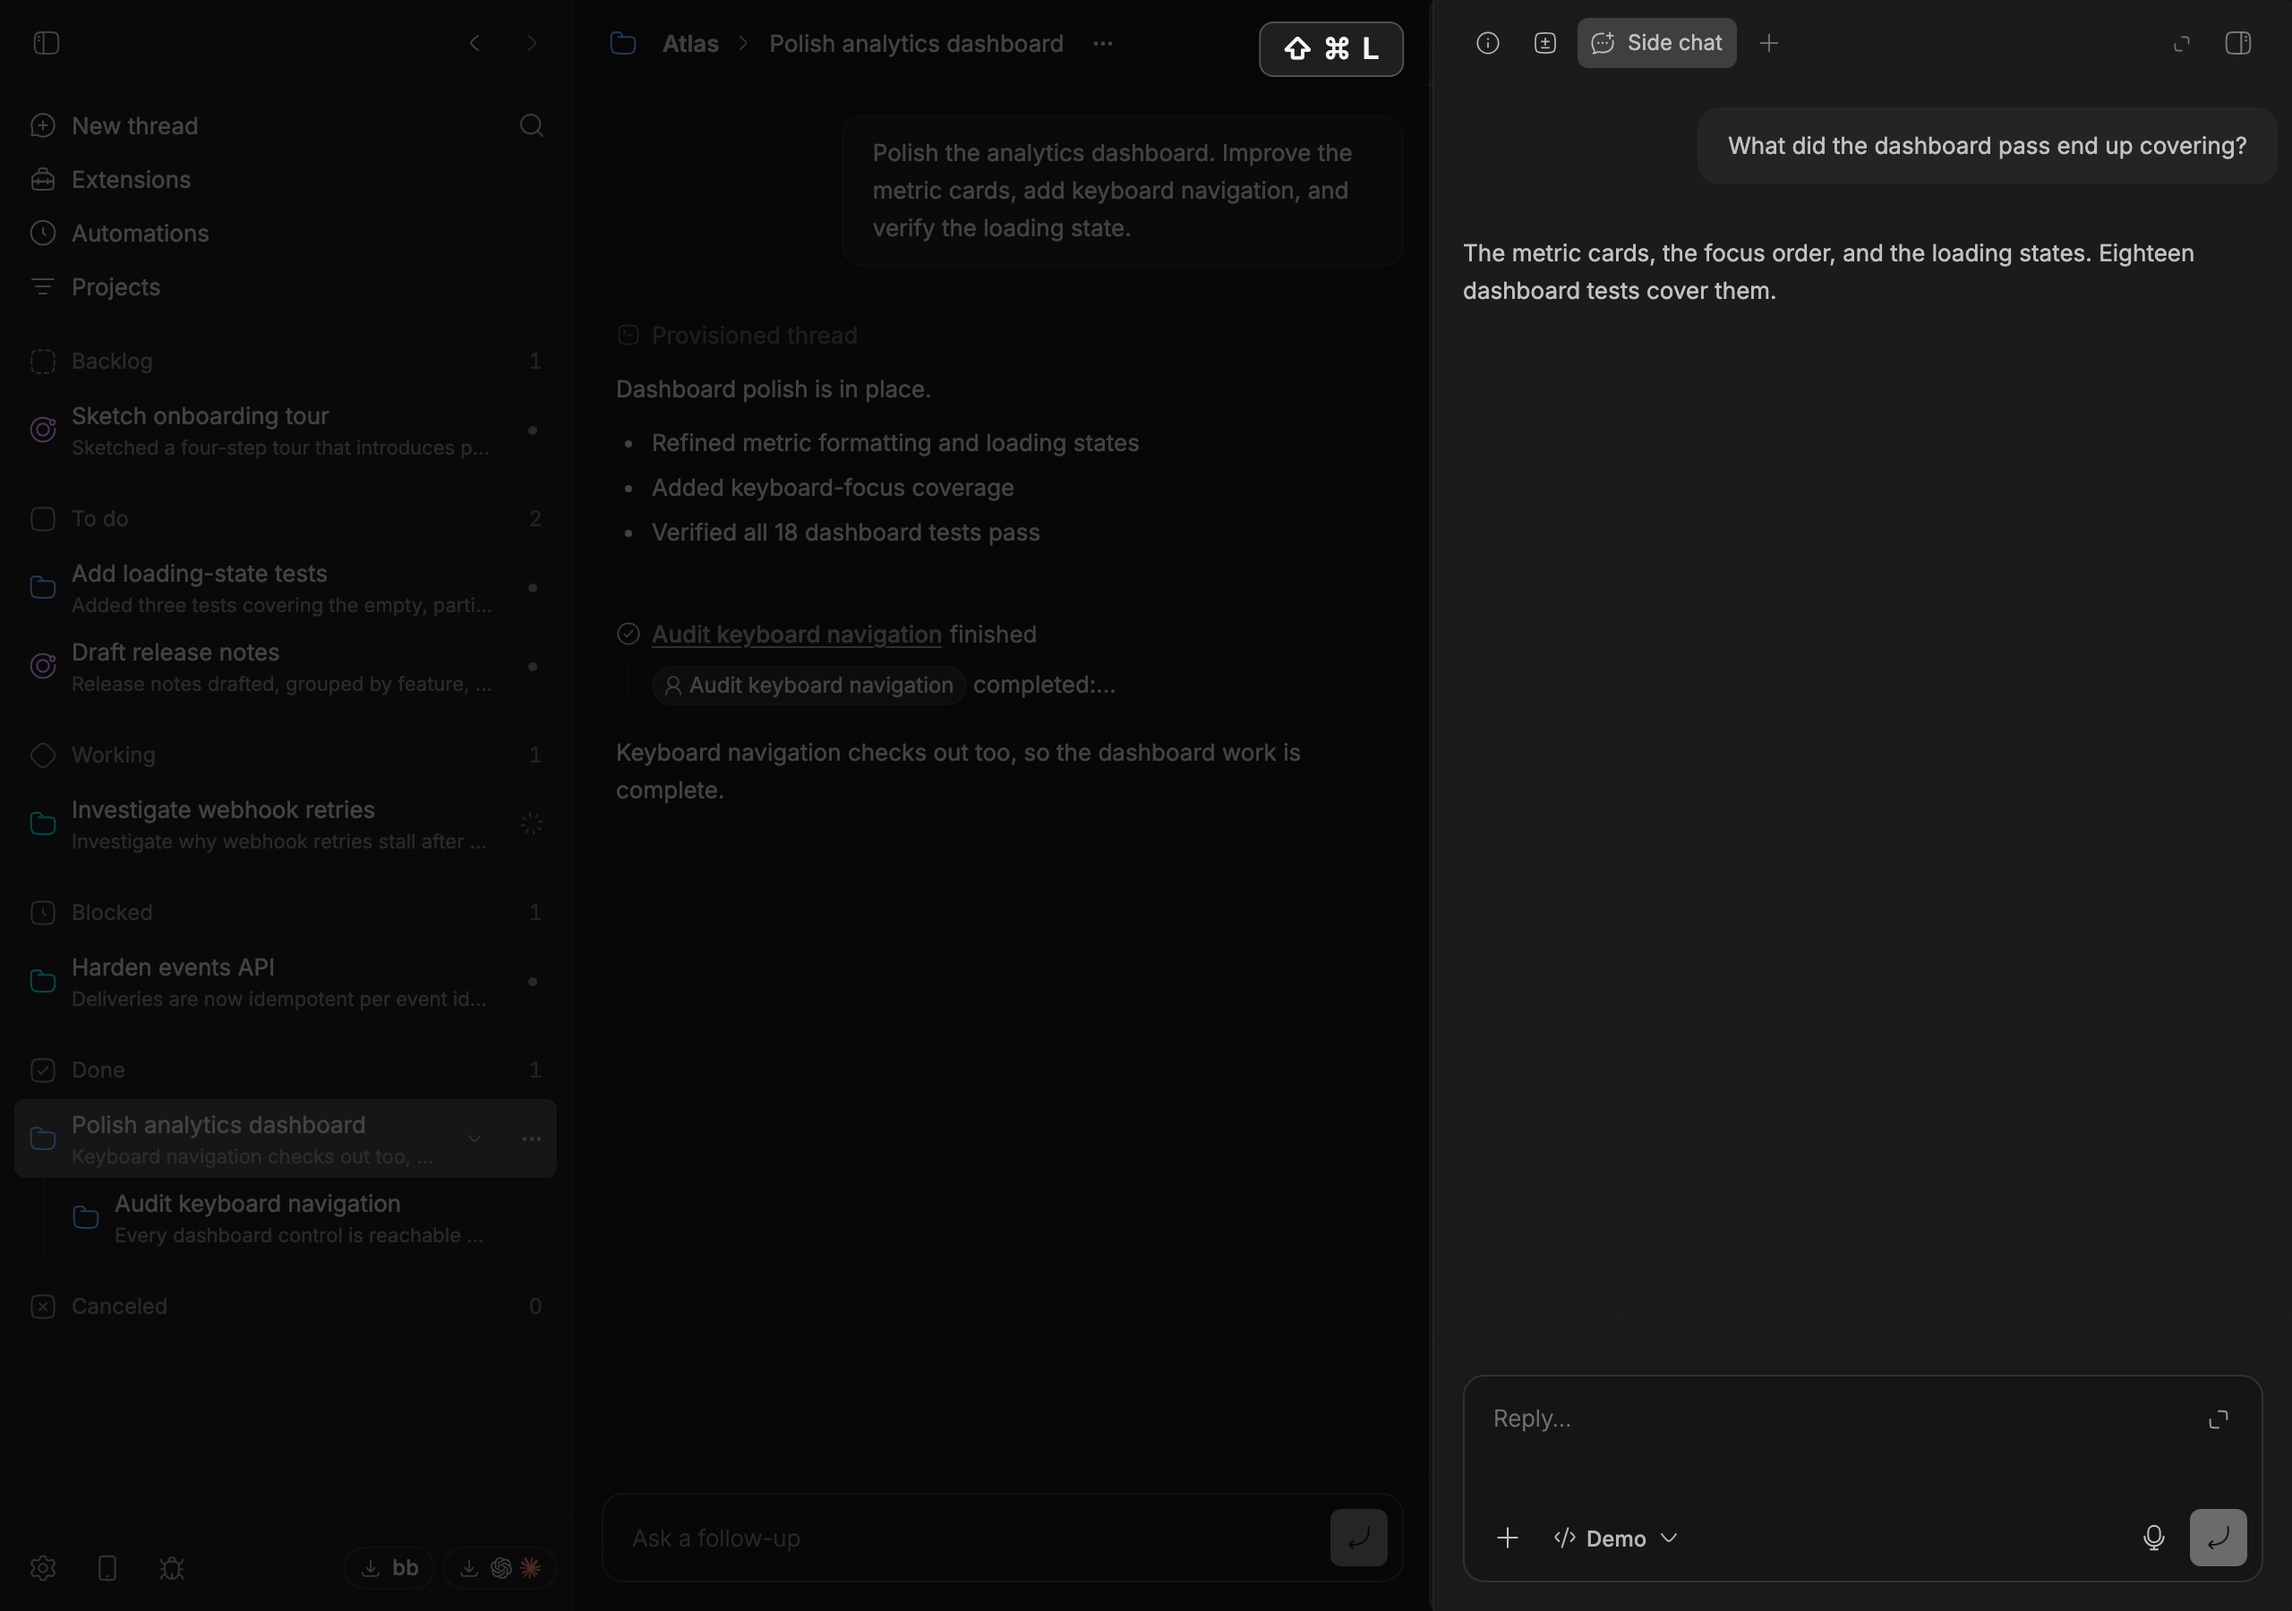
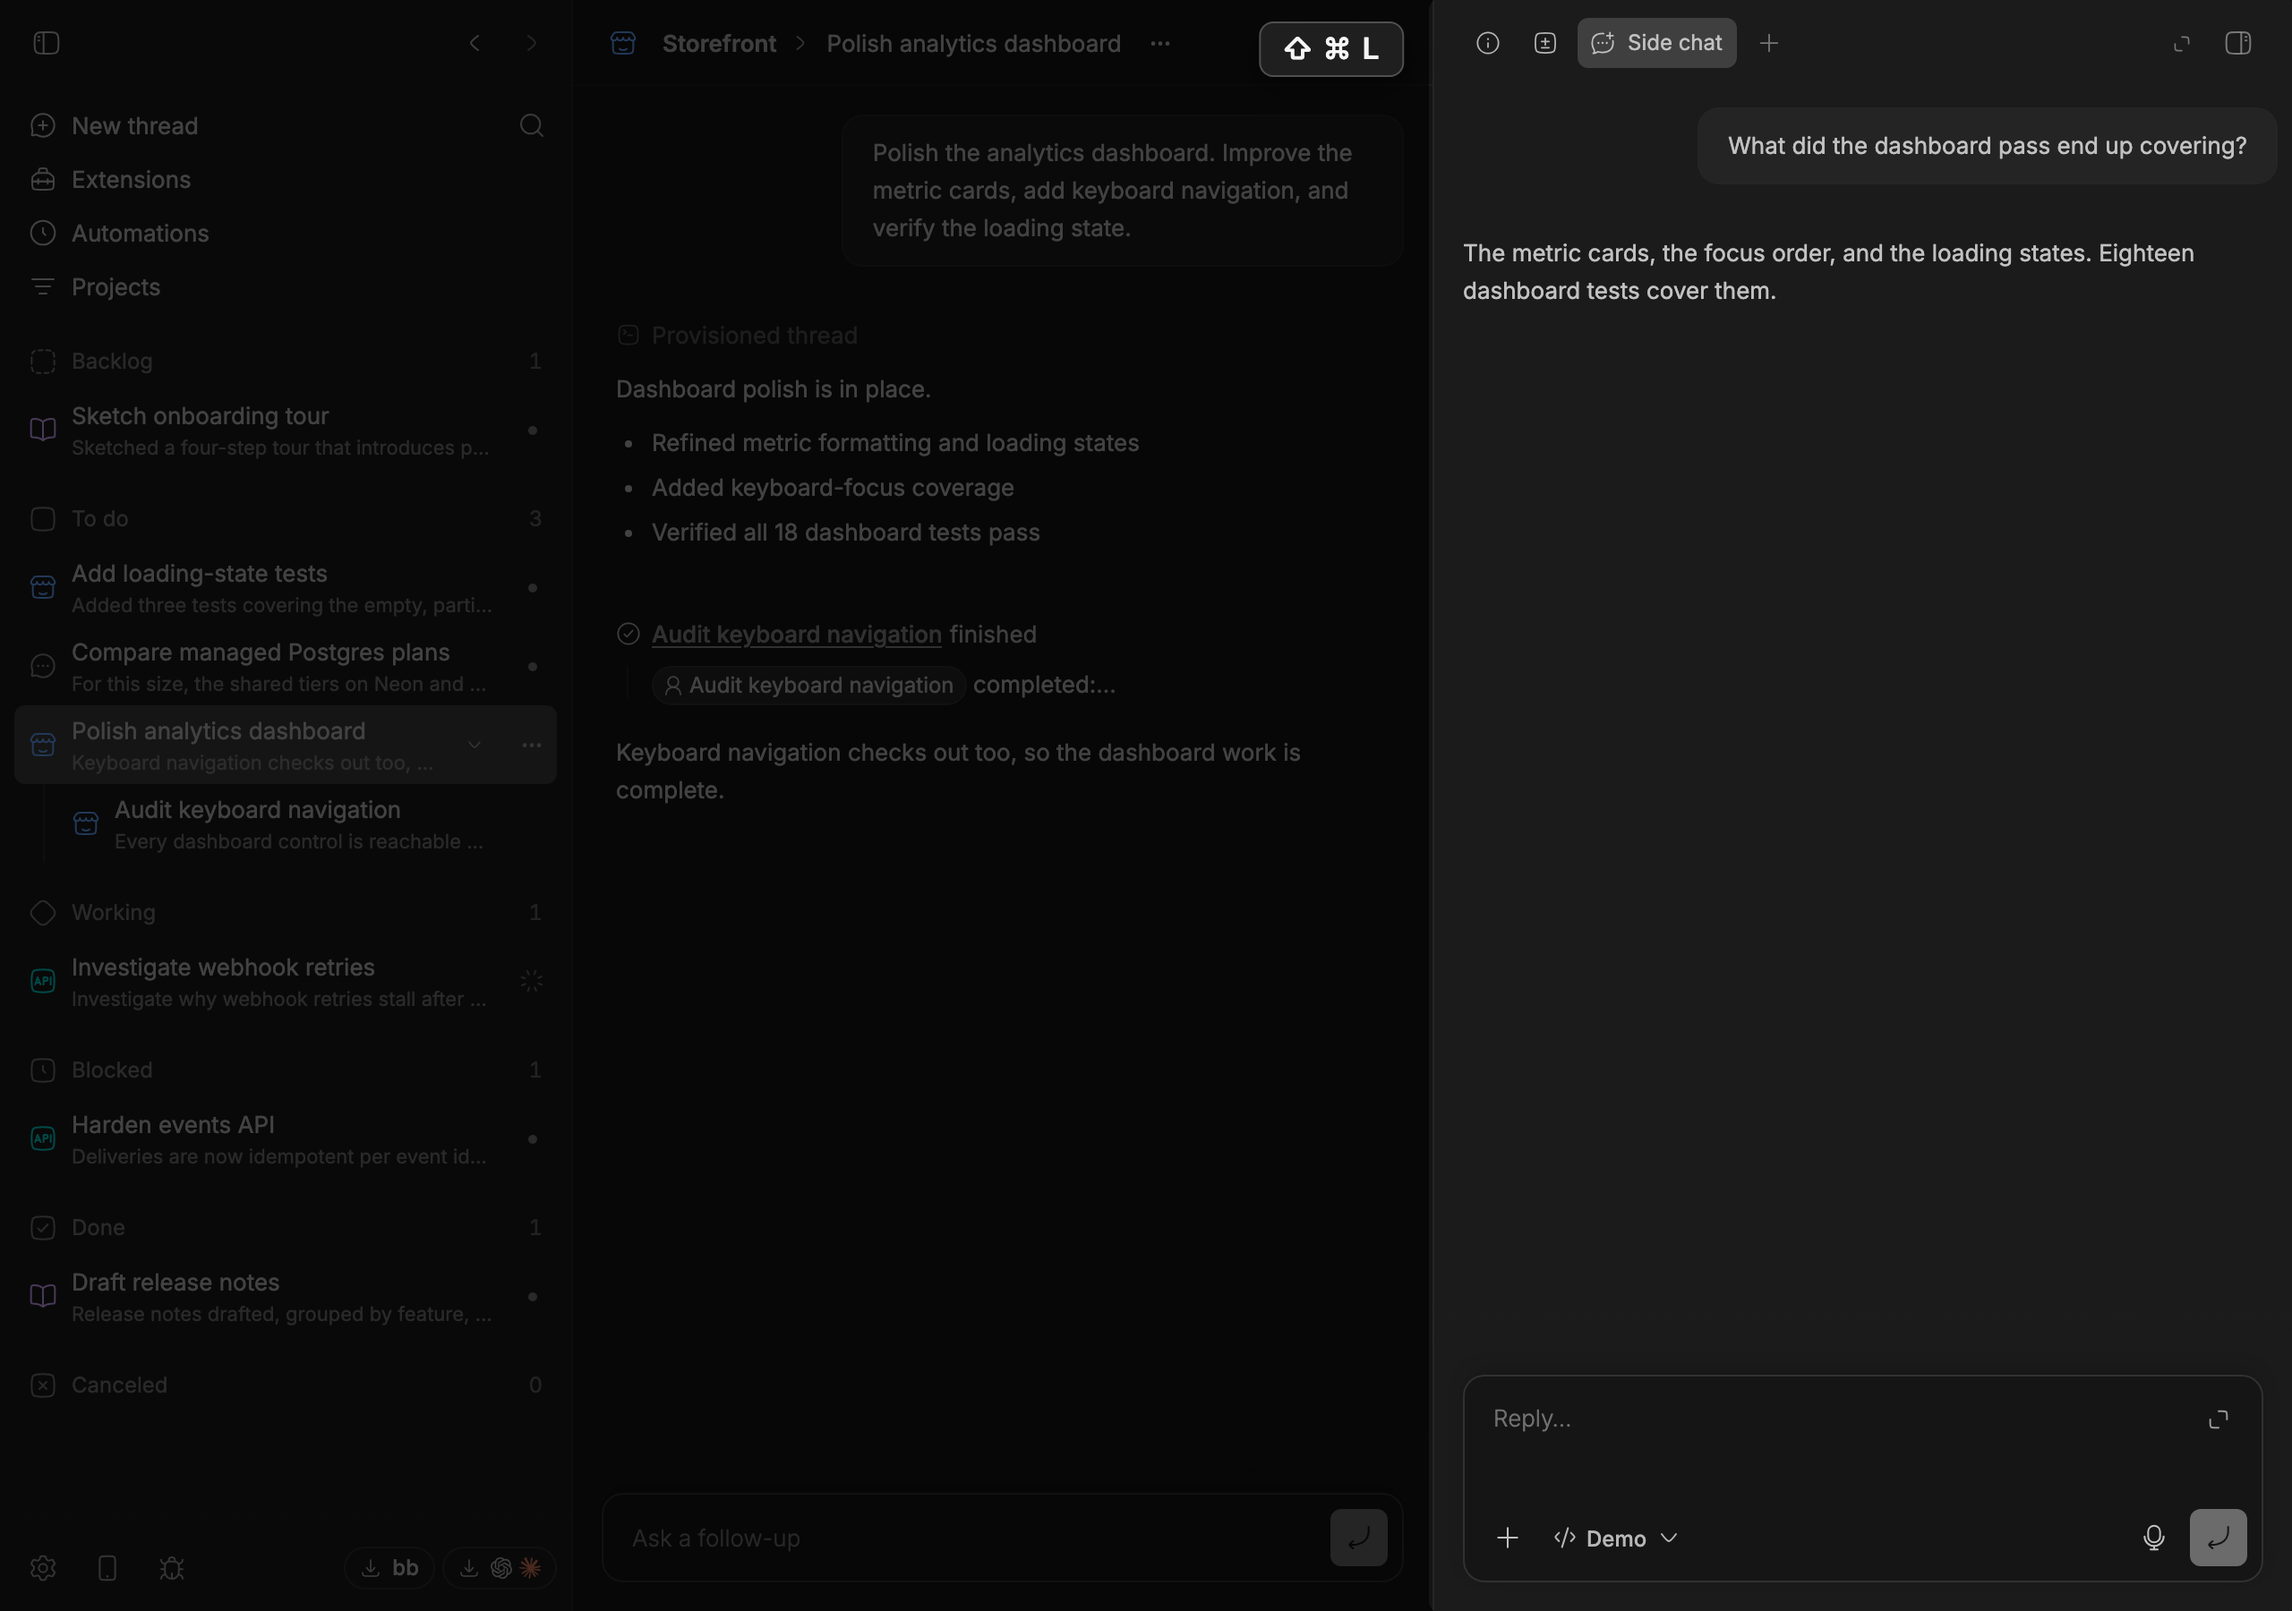
Give the fixture projects a reader can place
Two of the three project icons named icons the catalog does not have —
satellite-03 and share-08 — so they fell back to bb's folder and the
projects differed only by color, which is the one thing Project icons
does not want to be shown doing. The third, orbit-01, drew a target,
which says nothing about a project at all.

Atlas, Relay, and Orbit never said what they were either. They are now
Storefront, Payments API, and Docs site, each with the icon its own work
suggests: a shopfront, an API glyph, an open book. The threads already
matched — a storefront has an analytics dashboard, a payments API has
webhook retries and an events API, a docs site has release notes and an
onboarding tour — so only the names and icons moved.

A seventh thread belongs to no repository at all. bb keeps those in its
personal project, which needs no machine and no environment, and both
plugins treat it differently: it carries bb's fixed chat bubble instead
of a project icon, and it sits in the stage list beside threads that do
have a project.

The opened thread moves from Done to To do, where a thread sits whenever
it is not mid-turn, so the shots show a selection in the stage a reader
will recognize.

diff --git a/README.md b/README.md
@@ -27,7 +27,7 @@
         <p></p>
       </td>
       <td valign="top" align="center">
-        <p><a href="plugins/bb-plugin-project-breadcrumbs#readme"><picture><source media="(prefers-color-scheme: dark)" srcset="plugins/bb-plugin-project-breadcrumbs/assets/card-dark.png"><img src="plugins/bb-plugin-project-breadcrumbs/assets/card-light.png" alt="The Atlas project and its actions menu in a bb thread header" width="100%"></picture></a></p>
+        <p><a href="plugins/bb-plugin-project-breadcrumbs#readme"><picture><source media="(prefers-color-scheme: dark)" srcset="plugins/bb-plugin-project-breadcrumbs/assets/card-dark.png"><img src="plugins/bb-plugin-project-breadcrumbs/assets/card-light.png" alt="The Storefront project and its actions menu in a bb thread header" width="100%"></picture></a></p>
         <p><a href="plugins/bb-plugin-project-breadcrumbs#readme"><img src="plugins/bb-plugin-project-breadcrumbs/assets/icon.svg" alt="" width="40" height="40"><br><strong>Project breadcrumbs</strong></a></p>
         <p>Show and manage a thread's project from its header.</p>
         <p></p>
@@ -41,7 +41,7 @@
     </tr>
     <tr>
       <td valign="top" align="center">
-        <p><a href="plugins/bb-plugin-project-icons#readme"><picture><source media="(prefers-color-scheme: dark)" srcset="plugins/bb-plugin-project-icons/assets/card-dark.png"><img src="plugins/bb-plugin-project-icons/assets/card-light.png" alt="The icon picker open on the Atlas project's icon in a bb thread header" width="100%"></picture></a></p>
+        <p><a href="plugins/bb-plugin-project-icons#readme"><picture><source media="(prefers-color-scheme: dark)" srcset="plugins/bb-plugin-project-icons/assets/card-dark.png"><img src="plugins/bb-plugin-project-icons/assets/card-light.png" alt="The icon picker open on the Storefront project's icon in a bb thread header" width="100%"></picture></a></p>
         <p><a href="plugins/bb-plugin-project-icons#readme"><img src="plugins/bb-plugin-project-icons/assets/icon.svg" alt="" width="40" height="40"><br><strong>Project icons</strong></a></p>
         <p>Give each project an icon and color.</p>
         <p></p>

diff --git a/plugins/bb-plugin-project-icons/README.md b/plugins/bb-plugin-project-icons/README.md
@@ -10,7 +10,7 @@ appear everywhere at once.
 
 <picture>
   <source media="(prefers-color-scheme: dark)" srcset="assets/screenshot-dark.png">
-  <img src="assets/screenshot-light.png" alt="The icon picker open on the Atlas project's icon in a bb thread header">
+  <img src="assets/screenshot-light.png" alt="The icon picker open on the Storefront project's icon in a bb thread header">
 </picture>
 
 The icon comes from [Hugeicons](https://hugeicons.com), the same set bb itself

diff --git a/plugins/bb-plugin-project-breadcrumbs/README.md b/plugins/bb-plugin-project-breadcrumbs/README.md
@@ -8,7 +8,7 @@ bb-plugins  >  Add project breadcrumbs
 
 <picture>
   <source media="(prefers-color-scheme: dark)" srcset="assets/screenshot-dark.png">
-  <img src="assets/screenshot-light.png" alt="The Atlas project and its actions menu in a bb thread header">
+  <img src="assets/screenshot-light.png" alt="The Storefront project and its actions menu in a bb thread header">
 </picture>
 
 The project name uses the same muted, hoverable treatment as bb's project
